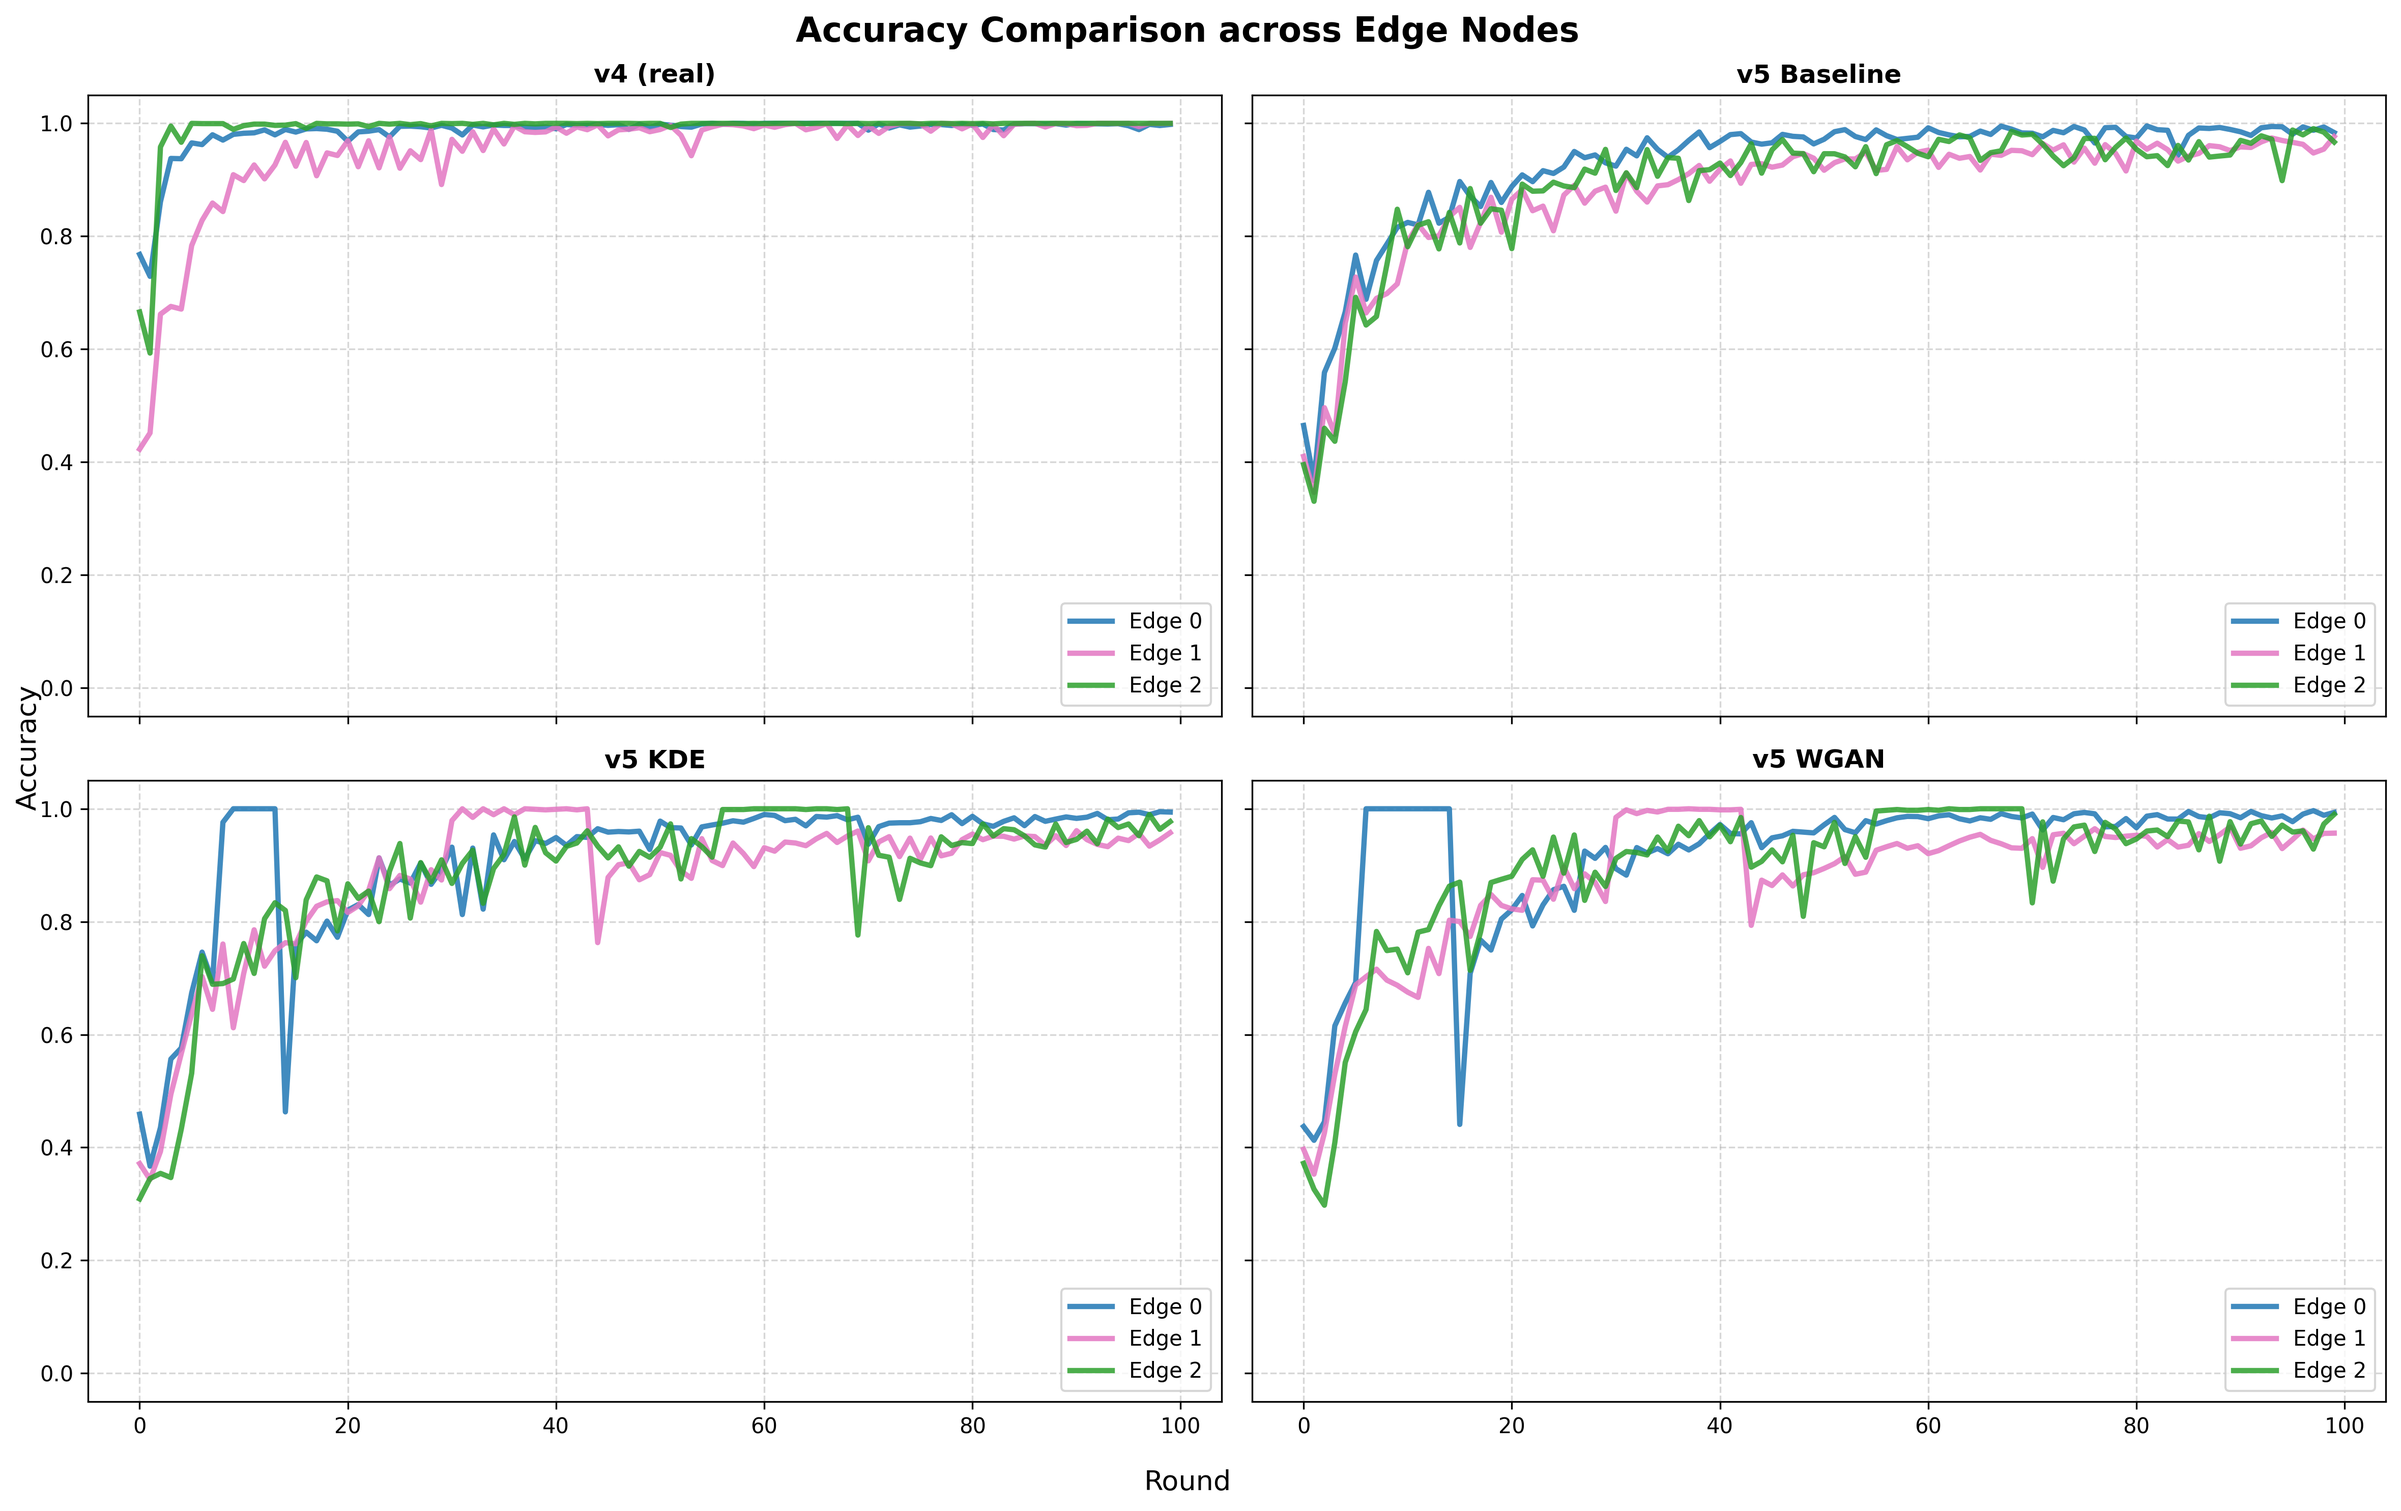
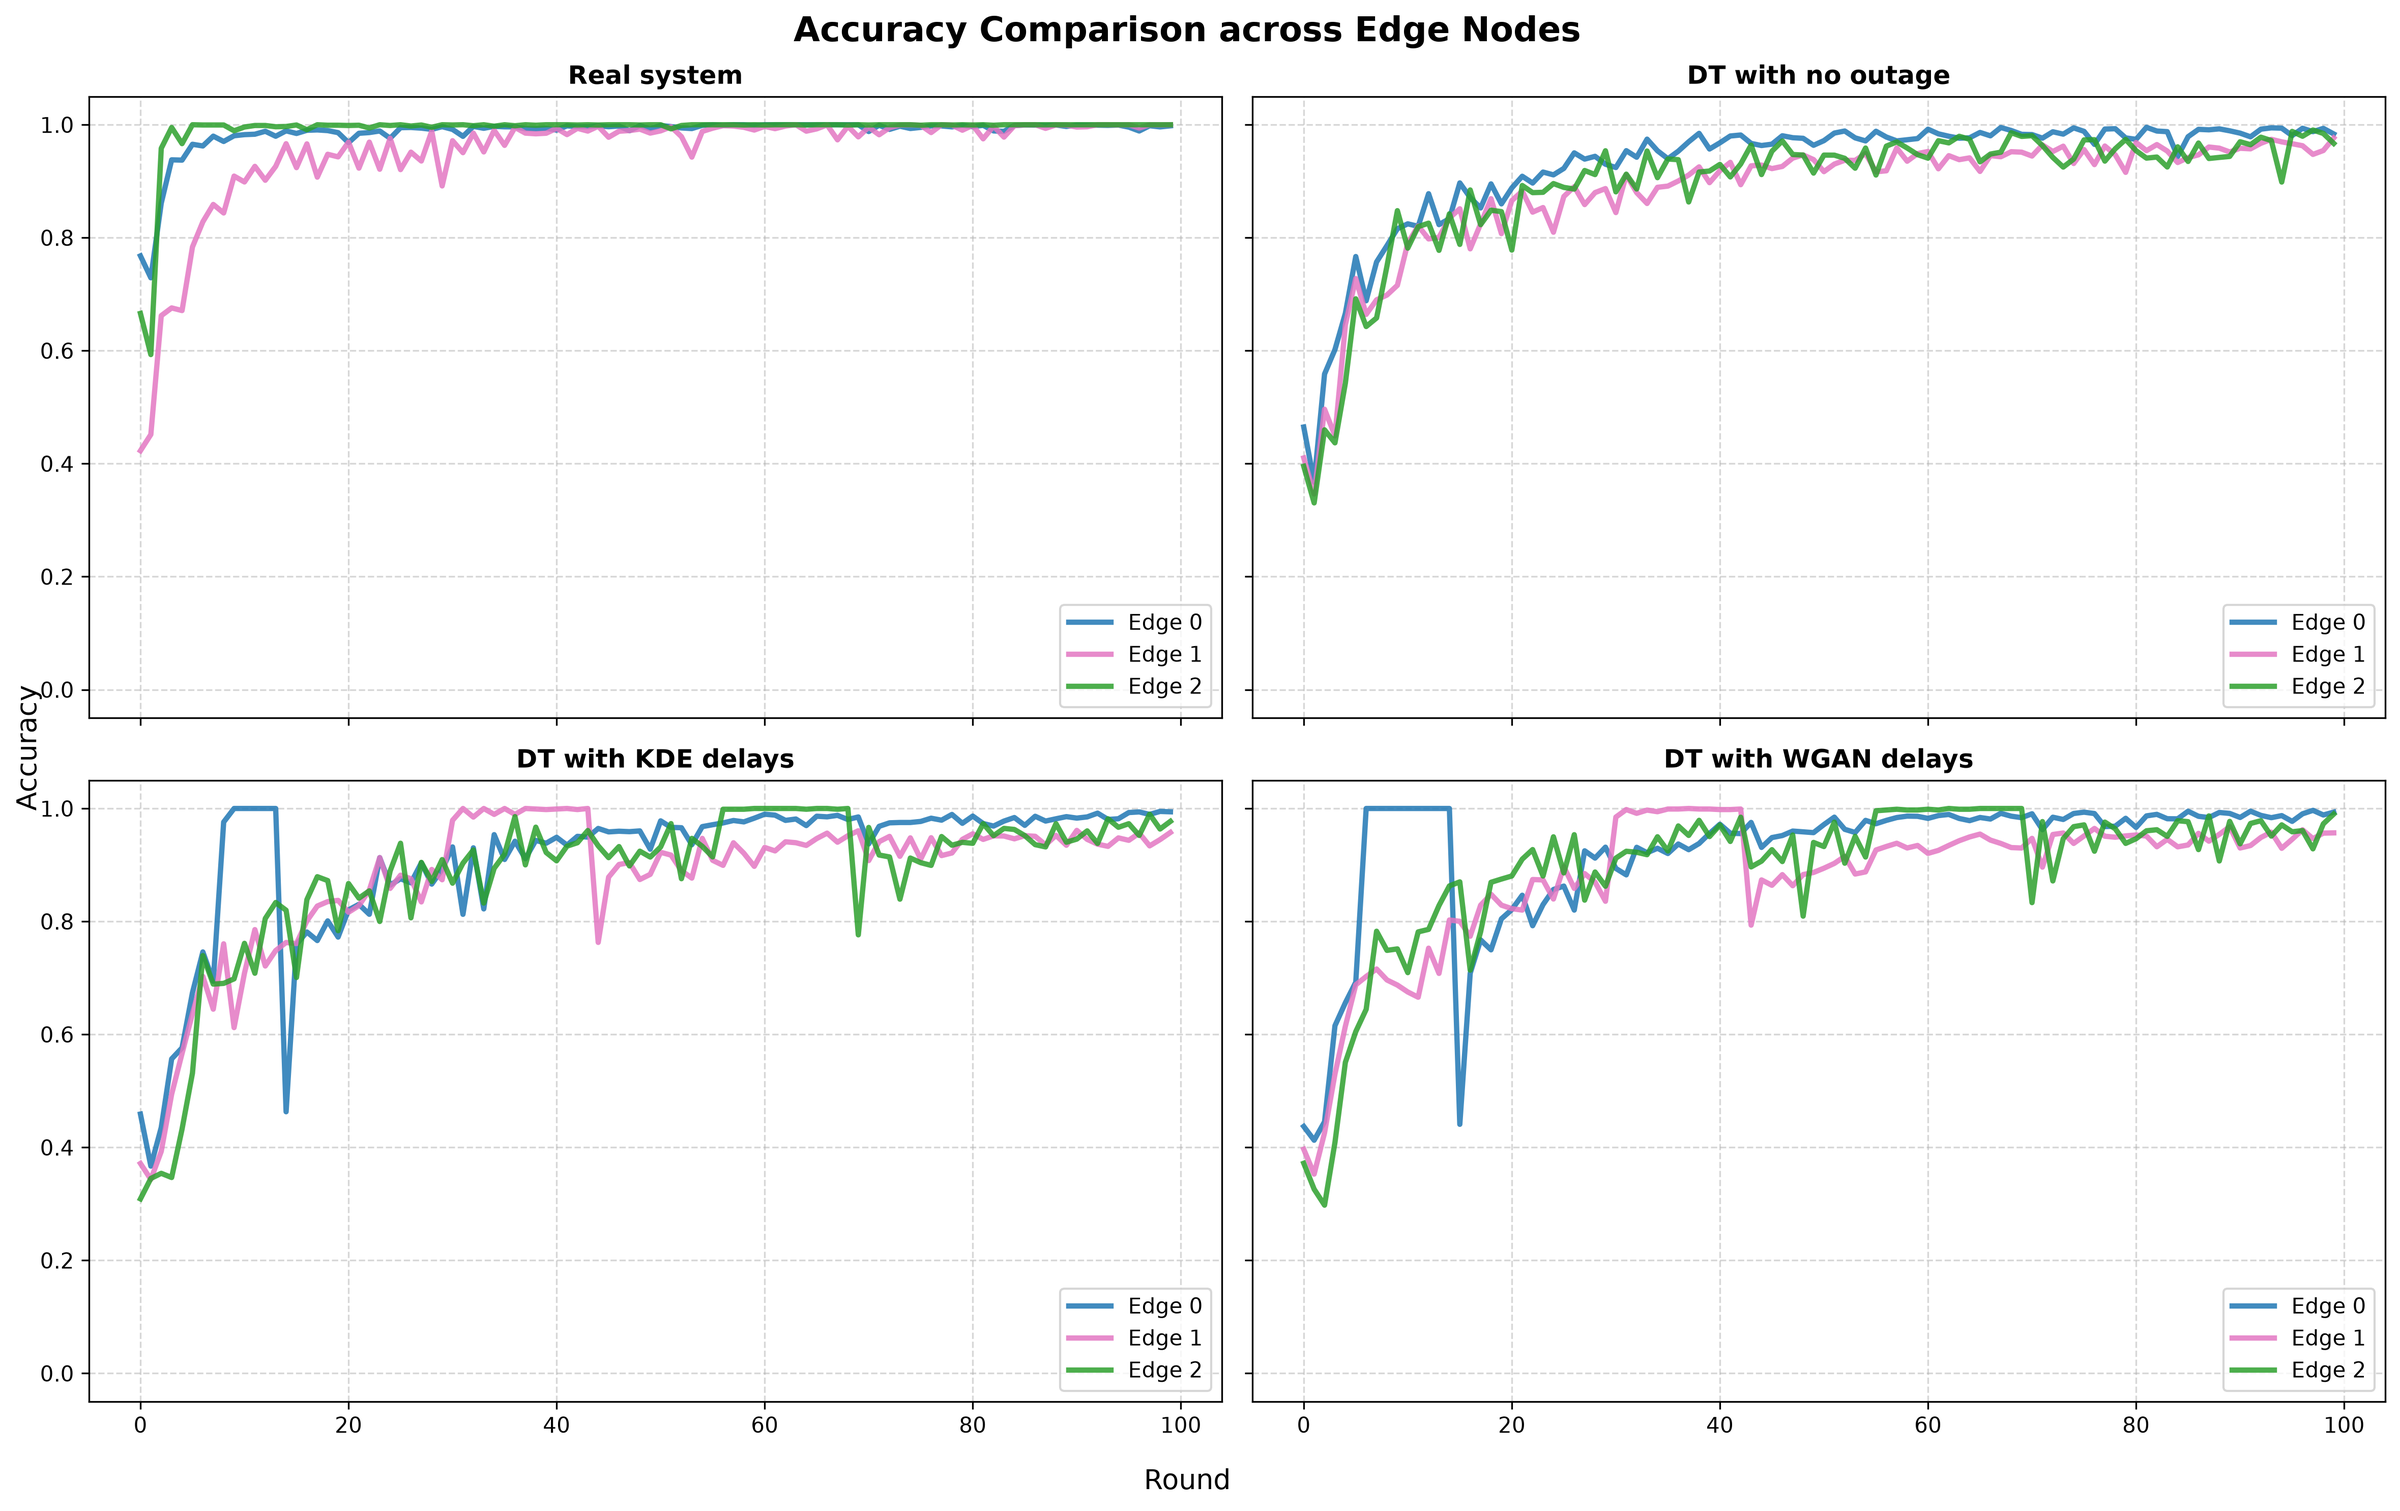
more plots

diff --git a/v5/visualization/plot_combined_cpu.py b/v5/visualization/plot_combined_cpu.py
@@ -14,7 +14,7 @@ SCRIPT_DIR = os.path.dirname(os.path.abspath(__file__))
 
 # 2. Rebuild the directory layout relative to the script's home location
 RUNS = {
-    'v4 (real)':   os.path.abspath(os.path.join(SCRIPT_DIR, '..', '..', 'v4', 'outputs')),
+    'Real system':   os.path.abspath(os.path.join(SCRIPT_DIR, '..', '..', 'v4', 'outputs')),
     'DT with no outage': os.path.abspath(os.path.join(SCRIPT_DIR, '..', 'outputs', 'baseline')),
     'DT with KDE delays':      os.path.abspath(os.path.join(SCRIPT_DIR, '..', 'outputs', 'kde')),
     'DT with WGAN delays':     os.path.abspath(os.path.join(SCRIPT_DIR, '..', 'outputs', 'wgan')),
